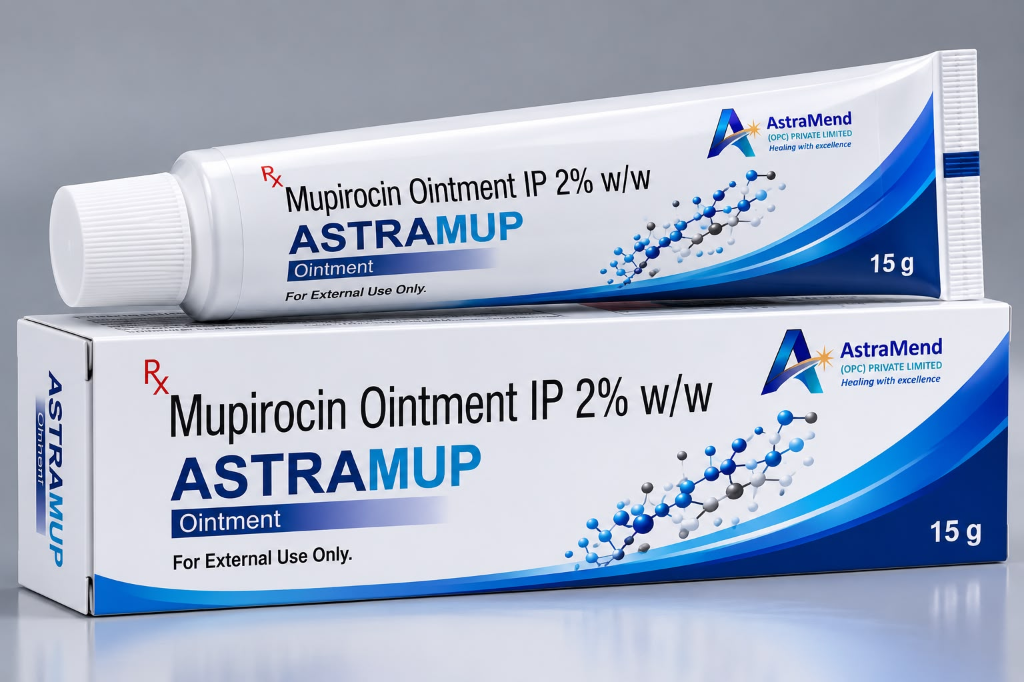
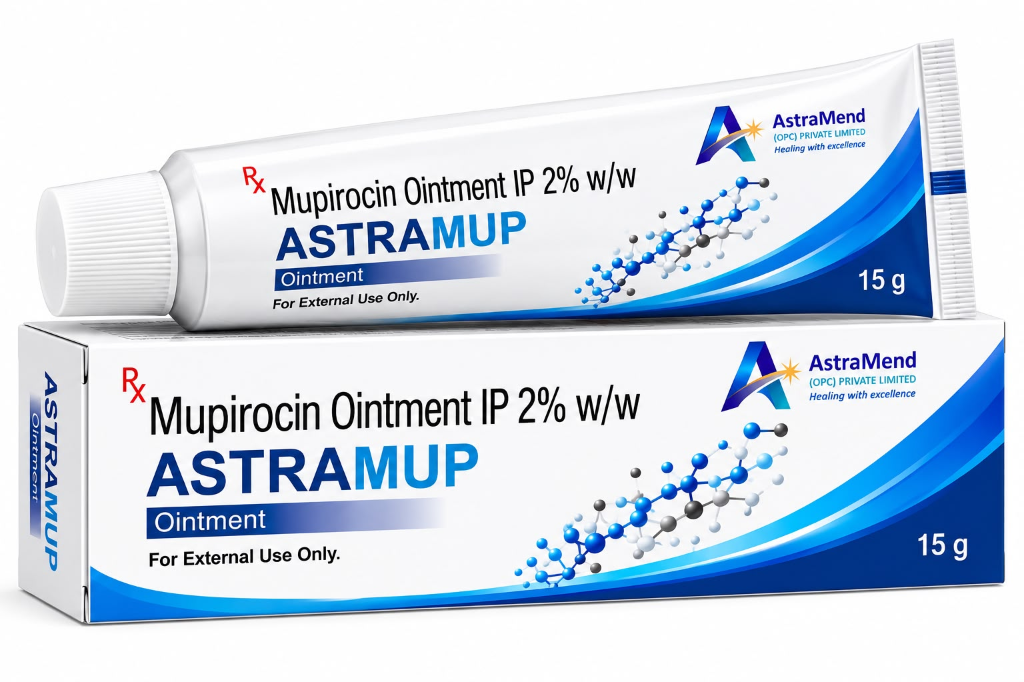
Remove Syrups & Suspensions product category and update ASTRAMUP image

diff --git a/index.html b/index.html
@@ -216,26 +216,6 @@
             </div>
           </div>
 
-          <!-- 2. Syrups & Suspensions -->
-          <div class="product-card" data-category="syrups">
-            <div class="product-card-img">
-              <img src="assets/images/product-syrups.jpg" alt="Syrups and Suspensions" loading="lazy">
-              <div class="product-card-icon-badge">
-                <svg width="20" height="20" viewBox="0 0 24 24" fill="none" stroke="currentColor" stroke-width="2" stroke-linecap="round" stroke-linejoin="round">
-                  <path d="M8 2h8"></path>
-                  <path d="M12 2v4"></path>
-                  <path d="M7 6h10a1 1 0 0 1 1 1v13a2 2 0 0 1-2 2H8a2 2 0 0 1-2-2V7a1 1 0 0 1 1-1Z"></path>
-                  <path d="M10 12h4"></path>
-                  <path d="M12 10v4"></path>
-                </svg>
-              </div>
-            </div>
-            <div class="product-card-body">
-              <h3 class="product-card-title">Syrups & Suspensions</h3>
-              <p class="product-card-desc">Effective care for all age groups</p>
-              <span class="product-card-action">Explore Catalog &rarr;</span>
-            </div>
-          </div>
 
           <!-- 3. Ointments & Creams -->
           <div class="product-card" data-category="ointments">
@@ -668,7 +648,6 @@
           <h4 class="footer-heading">Our Products</h4>
           <ul class="footer-links">
             <li><a href="javascript:void(0)" onclick="openProductCatalog('tablets')">Tablets & Capsules</a></li>
-            <li><a href="javascript:void(0)" onclick="openProductCatalog('syrups')">Syrups & Suspensions</a></li>
             <li><a href="javascript:void(0)" onclick="openProductCatalog('ointments')">Ointments & Creams</a></li>
             <li><a href="javascript:void(0)" onclick="openProductCatalog('injectables')">Injectables</a></li>
             <li><a href="javascript:void(0)" onclick="openProductCatalog('nutraceuticals')">Nutraceuticals</a></li>
@@ -848,9 +827,8 @@
         </div>
 
         <div class="catalog-filter-tags">
-          <button class="filter-chip active" data-filter="all">All Solutions (14)</button>
+          <button class="filter-chip active" data-filter="all">All Solutions</button>
           <button class="filter-chip" data-filter="tablets">Tablets & Capsules</button>
-          <button class="filter-chip" data-filter="syrups">Syrups & Suspensions</button>
           <button class="filter-chip" data-filter="ointments">Ointments & Creams</button>
           <button class="filter-chip" data-filter="injectables">Injectables</button>
           <button class="filter-chip" data-filter="nutraceuticals">Nutraceuticals</button>

diff --git a/js/main.js b/js/main.js
@@ -55,36 +55,6 @@ const PRODUCTS_DATA = [
     badge: 'Pain Relief'
   },
   {
-    id: 'syr-1',
-    category: 'syrups',
-    categoryName: 'Syrups & Suspensions',
-    name: 'AstraKuf-DX',
-    composition: 'Dextromethorphan HBr 10mg + Chlorpheniramine 2mg + Phenylephrine 5mg / 5ml',
-    indication: 'Dry irritating cough, allergy symptoms & soothing throat syrup.',
-    pack: '100 ml Bottle with Cup',
-    badge: 'Sugar Free'
-  },
-  {
-    id: 'syr-2',
-    category: 'syrups',
-    categoryName: 'Syrups & Suspensions',
-    name: 'AstraKuf-LS',
-    composition: 'Levosalbutamol 1mg + Ambroxol HCl 30mg + Guaiphenesin 50mg / 5ml',
-    indication: 'Productive wet cough, bronchitis and bronchial asthma.',
-    pack: '100 ml Bottle with Cup',
-    badge: 'Bronchodilator'
-  },
-  {
-    id: 'syr-3',
-    category: 'syrups',
-    categoryName: 'Syrups & Suspensions',
-    name: 'MendZyme Digestive Syrup',
-    composition: 'Fungal Diastase 50mg + Pepsin 10mg Flavoured Base',
-    indication: 'Digestive enzyme syrup for appetite stimulation and bloating.',
-    pack: '200 ml Bottle',
-    badge: 'Digestive Care'
-  },
-  {
     id: 'astramup-1',
     category: 'ointments',
     categoryName: 'Ointments & Creams',

diff --git a/css/style.css b/css/style.css
@@ -528,7 +528,7 @@ button, input, textarea, select {
 
 .products-grid {
   display: grid;
-  grid-template-columns: repeat(6, 1fr);
+  grid-template-columns: repeat(5, 1fr);
   gap: 20px;
 }
 
